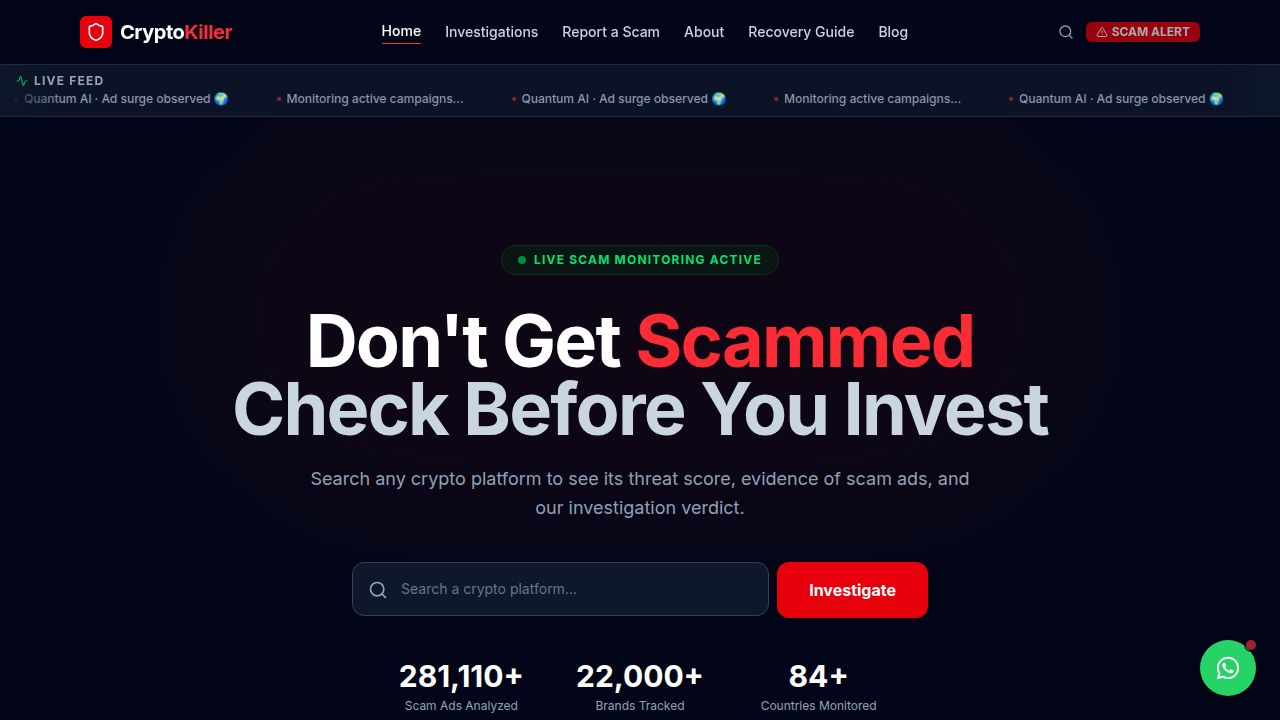
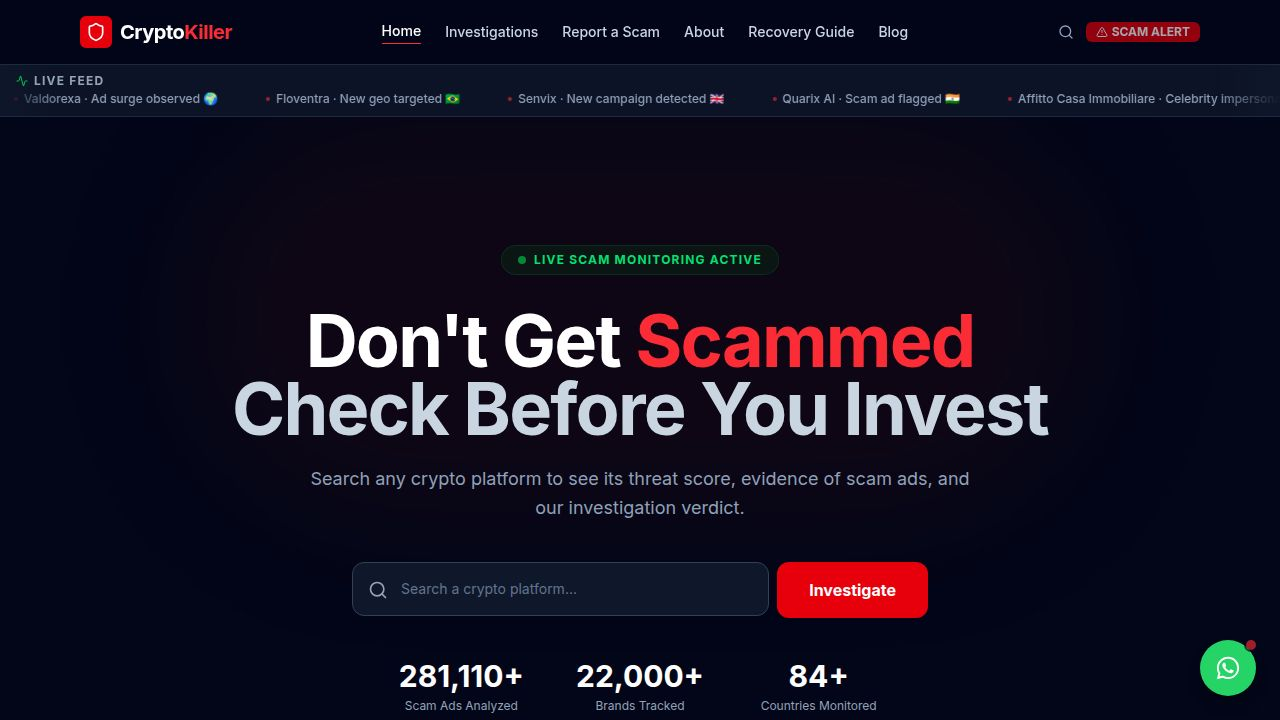
Add AI-discovery .well-known redirects (Task #80, Step 3)
Added three 302 redirect routes to the crypto-review web server
(artifacts/crypto-review/server/index.ts), next to the existing
/ai-sitemap.xml block:
- /.well-known/ai-plugin.json
- /.well-known/openapi.json
- /.well-known/skills.json

Each redirects to the vendor-hosted LightSite document at
https://api.llm-discovery-api.com/functions/v1/llm-discovery/public/<file>?domain=cryptokiller.org.
Refactored the vendor URL into shared constants (LLM_DISCOVERY_BASE +
LLM_DISCOVERY_QUERY) also used by AI_SITEMAP_URL, and extended the
existing 302-rationale comment to cover the new routes.

Verification: built the artifact and booted the built SSR server on a
spare port (Vite dev never serves these routes). All three new paths
return 302 with the correct Location; /ai-sitemap.xml still 302s, and
/openapi.json and /.well-known/api-catalog still return 200 unchanged.

No API-server, robots.txt, or llms.txt changes (out of scope).

Replit-Task-Id: c2b349a2-92e9-4a79-8a1d-87ab7185a91d

diff --git a/artifacts/crypto-review/server/index.ts b/artifacts/crypto-review/server/index.ts
@@ -690,11 +690,22 @@ app.get("/sitemap.xml", (_req: Request, res: Response) => {
 // the cryptokiller.org URL as the canonical entry point and we can retarget
 // or retire the vendor URL without fighting cached permanent redirects.
 // Registered before static + SSR so neither intercepts it.
-const AI_SITEMAP_URL =
-  "https://api.llm-discovery-api.com/functions/v1/llm-discovery/public/sitemap.xml?domain=cryptokiller.org";
+// The same rationale applies to the /.well-known AI-discovery documents
+// (ai-plugin.json, openapi.json, skills.json) below — all vendor-hosted,
+// all 302 so we can retarget or retire them freely.
+const LLM_DISCOVERY_BASE =
+  "https://api.llm-discovery-api.com/functions/v1/llm-discovery/public";
+const LLM_DISCOVERY_QUERY = "?domain=cryptokiller.org";
+const AI_SITEMAP_URL = `${LLM_DISCOVERY_BASE}/sitemap.xml${LLM_DISCOVERY_QUERY}`;
 app.get("/ai-sitemap.xml", (_req: Request, res: Response) => {
   res.redirect(302, AI_SITEMAP_URL);
 });
+
+for (const file of ["ai-plugin.json", "openapi.json", "skills.json"]) {
+  app.get(`/.well-known/${file}`, (_req: Request, res: Response) => {
+    res.redirect(302, `${LLM_DISCOVERY_BASE}/${file}${LLM_DISCOVERY_QUERY}`);
+  });
+}
 
 // IndexNow ownership verification file. Search engines (Bing/Yandex/Seznam)
 // fetch https://<host>/<key>.txt and confirm the body matches the key before